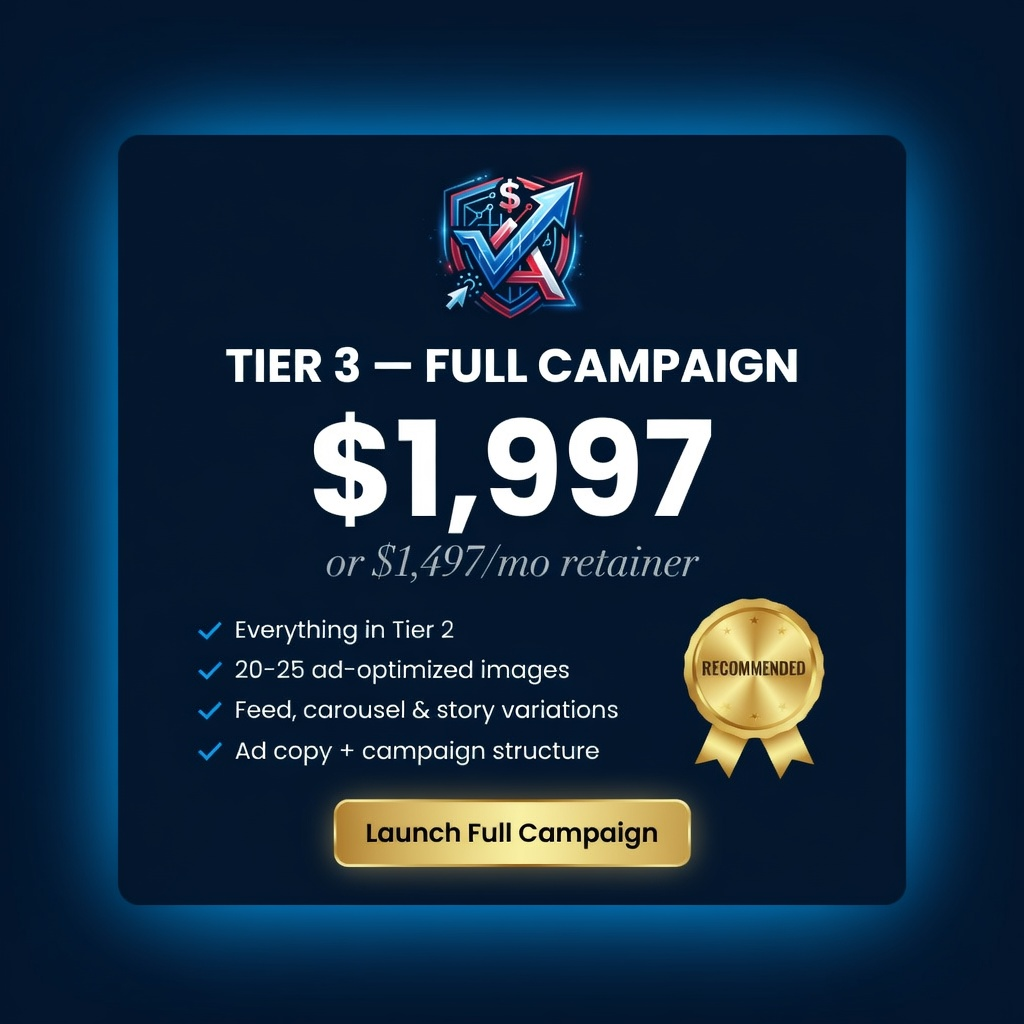
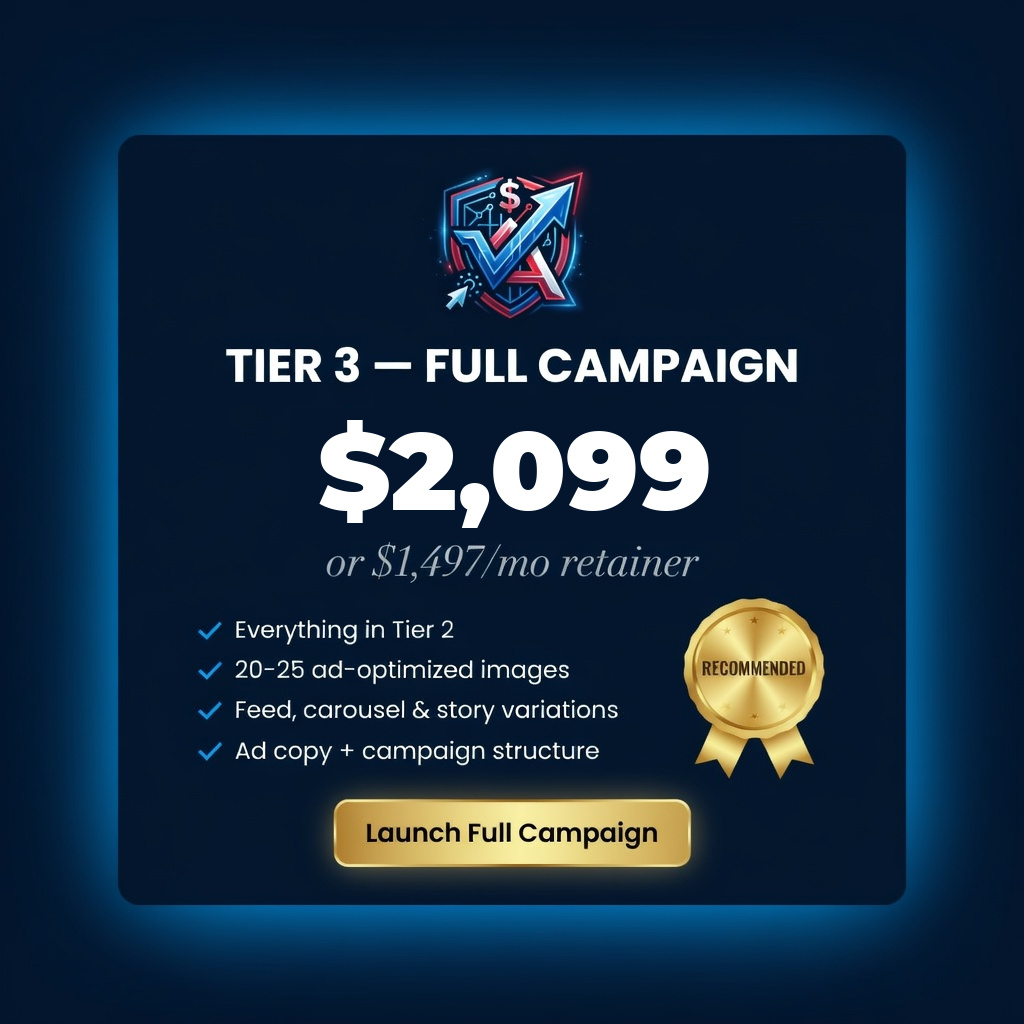
Point every package CTA back to Contact us
Hold Stripe checkout until the account password is fixed. Mini, Starter, Tiers 1–3, both retainers, and the logo add-on now use the homepage contact path. Existing Tier 2 and Tier 3 offer cards show $1,497 and $2,099.

Changed region(s): [[0.3125, 0.4062, 0.7188, 0.5312]]

diff --git a/next-steps.html b/next-steps.html
@@ -60,8 +60,7 @@
           <div class="label">Mini</div>
           <div class="price">$99.99</div>
           <div class="meta">one-time</div>
-          <!-- NEED_STRIPE_LINK: mini -->
-          <a class="btn" data-package="mini" href="mailto:hello@dfyvisuals.com?subject=Buy%20Mini%20%2499.99">Buy Mini — $99.99</a>
+          <a class="btn" href="/#contact">Contact us</a>
           <div class="meta"><a href="mailto:hello@dfyvisuals.com">hello@dfyvisuals.com</a></div>
         </aside>
       </section>
@@ -85,7 +84,7 @@
           <div class="label">Starter pack</div>
           <div class="price">$297</div>
           <div class="meta">one-time · message “Go Starter”</div>
-          <a class="btn" data-package="starter" href="https://buy.stripe.com/00w00ibGx9033boadFd7q00">Buy Starter — $297</a>
+          <a class="btn" href="/#contact">Contact us</a>
           <div class="meta"><a href="mailto:hello@dfyvisuals.com">hello@dfyvisuals.com</a></div>
         </aside>
       </section>
@@ -101,7 +100,7 @@
             <li>3 revisions</li>
             <li>Fast creative test</li>
           </ul>
-          <a class="btn" data-package="tier1" href="https://buy.stripe.com/4gMdR84e5a476nAadFd7q01">Buy Tier 1 — $497</a>
+          <a class="btn" href="/#contact">Contact us</a>
           <a class="btn ghost" href="tier-1.html">Review Tier 1</a>
         </article>
         <article class="tier-card">
@@ -113,8 +112,7 @@
             <li>Captions × 3 tones</li>
             <li>Hashtags, posting times, 30-day calendar</li>
           </ul>
-          <!-- NEED_STRIPE_LINK: tier2 -->
-          <a class="btn" data-package="tier2" href="mailto:hello@dfyvisuals.com?subject=Buy%20Tier%202%20%241%2C497">Buy Tier 2 — $1,497</a>
+          <a class="btn" href="/#contact">Contact us</a>
           <a class="btn ghost" href="tier-2.html">Review Tier 2</a>
         </article>
         <article class="tier-card recommended">
@@ -126,8 +124,7 @@
             <li>Ad copy + structure</li>
             <li>Premium retainer path</li>
           </ul>
-          <!-- NEED_STRIPE_LINK: tier3 -->
-          <a class="btn" data-package="tier3" href="mailto:hello@dfyvisuals.com?subject=Buy%20Tier%203%20%242%2C099">Buy Tier 3 — $2,099</a>
+          <a class="btn" href="/#contact">Contact us</a>
           <a class="btn ghost" href="tier-3.html">Review Tier 3</a>
         </article>
       </div>
@@ -184,8 +181,7 @@
           <li>1–2 revision rounds</li>
         </ul>
         <div class="btn-row">
-          <!-- NEED_STRIPE_LINK: logo -->
-          <a class="btn" data-package="logo" href="mailto:hello@dfyvisuals.com?subject=Buy%20Logo%20add-on%20%24197">Buy logo add-on — $197</a>
+          <a class="btn" href="/#contact">Contact us</a>
         </div>
       </div>
 
@@ -193,8 +189,7 @@
       <div class="card">
         <p class="note" style="margin:0 0 12px;">Both retainers have a 3-month minimum. The main monthly retainer is $697/mo (15 images, captions, and a 30-day calendar). The premium retainer is $1,497/mo (Tier 3 scope monthly).</p>
         <div class="btn-row">
-          <a class="btn" data-package="retainer" href="https://buy.stripe.com/28EcN4aCt5NRbHU2Ldd7q04">Buy monthly retainer — $697/mo</a>
-          <a class="btn" data-package="premium" href="https://buy.stripe.com/00w8wObGx7VZ4fs1H9d7q05">Buy premium retainer — $1,497/mo</a>
+          <a class="btn" href="/#contact">Contact us</a>
         </div>
       </div>
 

diff --git a/index.html b/index.html
@@ -114,8 +114,7 @@
           <div class="label">Mini</div>
           <div class="price">$99.99</div>
           <div class="meta">one-time</div>
-          <!-- NEED_STRIPE_LINK: mini -->
-          <a class="btn" data-package="mini" href="mailto:hello@dfyvisuals.com?subject=Buy%20Mini%20%2499.99">Buy Mini — $99.99</a>
+          <a class="btn" href="#contact">Contact us</a>
           <div class="meta"><a href="mailto:hello@dfyvisuals.com">hello@dfyvisuals.com</a></div>
         </aside>
       </section>
@@ -140,7 +139,7 @@
           <div class="label">Starter pack</div>
           <div class="price">$297</div>
           <div class="meta">one-time · entry offer</div>
-          <a class="btn" data-package="starter" href="https://buy.stripe.com/00w00ibGx9033boadFd7q00">Buy Starter — $297</a>
+          <a class="btn" href="#contact">Contact us</a>
         </aside>
       </section>
 
@@ -156,7 +155,7 @@
             <li>Organized delivery + usage rights</li>
             <li>Best for testing creatives</li>
           </ul>
-          <a class="btn" data-package="tier1" href="https://buy.stripe.com/4gMdR84e5a476nAadFd7q01">Buy Tier 1 — $497</a>
+          <a class="btn" href="#contact">Contact us</a>
           <a class="btn ghost" href="tier-1.html">Open Tier 1</a>
         </article>
 
@@ -170,8 +169,7 @@
             <li>Hashtags + posting times</li>
             <li>30-day content calendar</li>
           </ul>
-          <!-- NEED_STRIPE_LINK: tier2 -->
-          <a class="btn" data-package="tier2" href="mailto:hello@dfyvisuals.com?subject=Buy%20Tier%202%20%241%2C497">Buy Tier 2 — $1,497</a>
+          <a class="btn" href="#contact">Contact us</a>
           <a class="btn ghost" href="tier-2.html">Open Tier 2</a>
         </article>
 
@@ -185,8 +183,7 @@
             <li>Feed / carousel / story variations</li>
             <li>Ad copy + campaign structure</li>
           </ul>
-          <!-- NEED_STRIPE_LINK: tier3 -->
-          <a class="btn" data-package="tier3" href="mailto:hello@dfyvisuals.com?subject=Buy%20Tier%203%20%242%2C099">Buy Tier 3 — $2,099</a>
+          <a class="btn" href="#contact">Contact us</a>
           <a class="btn ghost" href="tier-3.html">Open Tier 3</a>
         </article>
       </div>
@@ -202,8 +199,7 @@
           <li>1–2 revision rounds</li>
         </ul>
         <div class="btn-row">
-          <!-- NEED_STRIPE_LINK: logo -->
-          <a class="btn" data-package="logo" href="mailto:hello@dfyvisuals.com?subject=Buy%20Logo%20add-on%20%24197">Buy logo add-on — $197</a>
+          <a class="btn" href="#contact">Contact us</a>
         </div>
       </div>
 
@@ -285,7 +281,7 @@
             <li>Captions</li>
             <li>30-day content calendar</li>
           </ul>
-          <a class="btn ghost" data-package="retainer" href="https://buy.stripe.com/28EcN4aCt5NRbHU2Ldd7q04">Buy monthly retainer — $697/mo</a>
+          <a class="btn ghost" href="#contact">Contact us</a>
         </article>
 
         <article class="tier-card recommended">
@@ -297,7 +293,7 @@
             <li>Ad-optimized images + variations</li>
             <li>Ad copy + campaign structure</li>
           </ul>
-          <a class="btn" data-package="premium" href="https://buy.stripe.com/00w8wObGx7VZ4fs1H9d7q05">Buy premium retainer — $1,497/mo</a>
+          <a class="btn" href="#contact">Contact us</a>
         </article>
       </div>
 

diff --git a/tier-3.html b/tier-3.html
@@ -70,9 +70,7 @@
             <li>Premium retainer: Tier 3 scope monthly</li>
           </ul>
           <div class="cta-wrap">
-            <!-- NEED_STRIPE_LINK: tier3 -->
-            <a class="btn" data-package="tier3" href="mailto:hello@dfyvisuals.com?subject=Buy%20Tier%203%20%242%2C099">Buy Tier 3 — $2,099</a>
-            <a class="btn ghost" data-package="premium" href="https://buy.stripe.com/00w8wObGx7VZ4fs1H9d7q05">Buy premium retainer — $1,497/mo</a>
+            <a class="btn" href="/#contact">Contact us</a>
           </div>
         </aside>
       </section>
@@ -101,7 +99,7 @@
       </div>
 
       <h3 class="section">Offer creative concepts</h3>
-      <p class="note">Concept cards below are layout samples and may show an older price. Tier 3 is $2,099 one-time, or $1,497/mo as the premium retainer.</p>
+      <p class="note">Concept cards show Tier 3 at $2,099, or the $1,497/mo premium retainer. The “20–25 images” line on those cards is an older scope note. The published campaign total is 35–40 images.</p>
       <div class="gallery">
         <figure class="shot">
           <img src="06-tier3-offer-a.jpg" alt="Tier 3 offer card A" />
@@ -160,8 +158,7 @@
           <p class="note" style="margin:0 0 12px;">
             Full campaign build for a launch or major push (35–40 images total). You keep all assets and can run them as long as you want.
           </p>
-          <!-- NEED_STRIPE_LINK: tier3 -->
-          <a class="btn" data-package="tier3" href="mailto:hello@dfyvisuals.com?subject=Buy%20Tier%203%20%242%2C099">Buy Tier 3 — $2,099</a>
+          <a class="btn" href="/#contact">Contact us</a>
         </div>
         <div class="card recommended">
           <strong class="card-title tight">Premium retainer — $1,497/mo</strong>
@@ -169,8 +166,7 @@
             Tier 3 scope every month, with a 3-month minimum. The main monthly retainer is separate: $697/mo for 15 images, captions, and a 30-day calendar, also with a 3-month minimum.
           </p>
           <div class="btn-row">
-            <a class="btn" data-package="premium" href="https://buy.stripe.com/00w8wObGx7VZ4fs1H9d7q05">Buy premium retainer — $1,497/mo</a>
-            <a class="btn ghost" data-package="retainer" href="https://buy.stripe.com/28EcN4aCt5NRbHU2Ldd7q04">Buy monthly retainer — $697/mo</a>
+            <a class="btn" href="/#contact">Contact us</a>
           </div>
         </div>
       </div>

diff --git a/tier-2.html b/tier-2.html
@@ -65,8 +65,7 @@
             <li>30-day content calendar</li>
           </ul>
           <div class="cta-wrap">
-            <!-- NEED_STRIPE_LINK: tier2 -->
-            <a class="btn" data-package="tier2" href="mailto:hello@dfyvisuals.com?subject=Buy%20Tier%202%20%241%2C497">Buy Tier 2 — $1,497</a>
+            <a class="btn" href="/#contact">Contact us</a>
           </div>
         </aside>
       </section>
@@ -95,7 +94,7 @@
       </div>
 
       <h3 class="section">Offer creative concepts</h3>
-      <p class="note">Concept cards below are layout samples and may show an older price. Tier 2 is $1,497 for 30 images stacked.</p>
+      <p class="note">Concept cards below show the Tier 2 layout. The published price is $1,497 for 30 images stacked.</p>
       <div class="gallery">
         <figure class="shot">
           <img src="05-tier2-offer-a.jpg" alt="Tier 2 offer card A" />

diff --git a/gallery.html b/gallery.html
@@ -75,7 +75,7 @@
       </div>
 
       <h3 class="section">Package offer cards</h3>
-      <p class="note">Concept layouts. Published prices: Tier 1 $497, Tier 2 $1,497 (30 images stacked), Tier 3 $2,099. Cards may show an older figure.</p>
+      <p class="note">Concept layouts. Published prices: Tier 1 $497, Tier 2 $1,497 (30 images stacked), Tier 3 $2,099. The Tier 3 cards still include an older “20–25 images” scope line. The published total is 35–40.</p>
       <div class="gallery">
         <figure class="shot">
           <img src="04-tier1-offer-a.jpg" alt="Tier 1 offer card, Visuals Only at $497" />

diff --git a/tier-1.html b/tier-1.html
@@ -64,7 +64,7 @@
             <li>Ideal for one-off campaigns &amp; creative tests</li>
           </ul>
           <div class="cta-wrap">
-            <a class="btn" data-package="tier1" href="https://buy.stripe.com/4gMdR84e5a476nAadFd7q01">Buy Tier 1 — $497</a>
+            <a class="btn" href="/#contact">Contact us</a>
           </div>
         </aside>
       </section>
